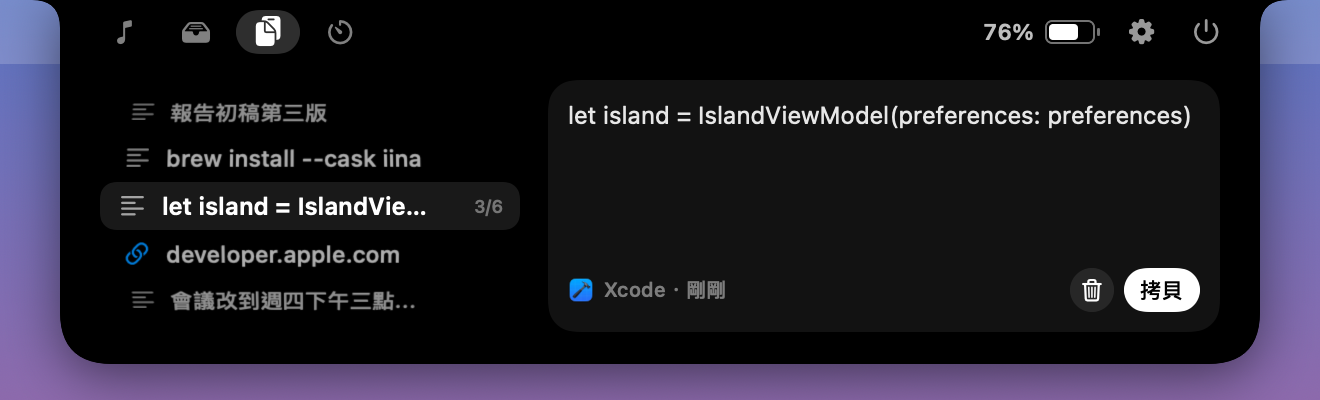
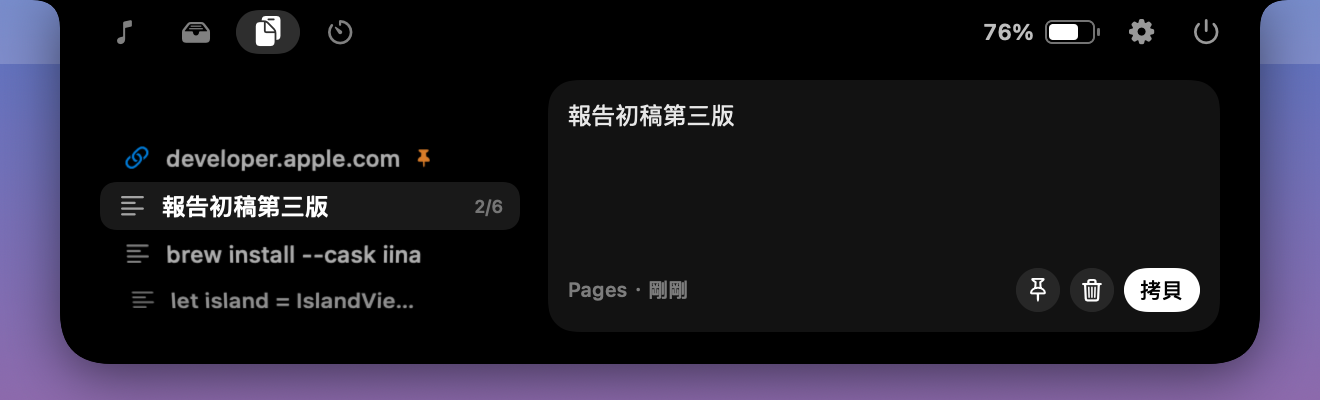
docs: describe pinning and concurrent timers, refresh screenshots
- Document clipboard pinning and the 30/50/100/200 entry limit, and the
  timer and Pomodoro running independently, in both READMEs
- Correct the clipboard size cap in Known limitations (32 MB of unpinned
  entries, not 64 MB)
- Show the timer counting down in the background in the Pomodoro
  screenshot, and use the pinned-entry scenario for the clipboard one

diff --git a/Sources/IsletKit/Support/SnapshotRenderer.swift b/Sources/IsletKit/Support/SnapshotRenderer.swift
@@ -126,6 +126,9 @@ enum SnapshotRenderer {
             Scenario(name: "07b-expanded-shelf-empty") { $0.expand(tab: .shelf) },
             Scenario(name: "07c-shelf-drop-zones") { $0.debugShowDropZones() },
             Scenario(name: "08-expanded-timer") { island in
+                // 計時器在背景跑，它的模式按鈕會顯示剩餘時間
+                island.timer.setCountdown(minutes: 10)
+                island.timer.start()
                 island.timer.setMode(.pomodoro)
                 island.timer.finish()
                 island.timer.finish()

diff --git a/README.md b/README.md
@@ -48,12 +48,12 @@ The screenshots are rendered by the app itself with `make screenshots` (fake wal
 | Charging & battery | Shows "Charging" and the level when plugged in; alerts once each at low battery (20 %, 10 %) and when fully charged | Battery level in the top bar (when the app tray is empty) |
 | App tray | — | Apps whose menu bar icons you've turned off (DockDoor, LinearMouse…) sit on the right of the top bar: in color when running, gray when not. Click one to reopen it (usually shows its settings window); right-click to open settings, launch, quit or remove it |
 | File shelf | Drag files onto the notch to expand it | Drop onto the shelf or AirDrop; drag items back out, double-click to open, right-click for a menu |
-| Timer / Pomodoro | Progress ring and time remaining | Presets (1/10/30/60/90/120 min), Pomodoro focus/break lengths and auto-continue (rounds keep counting up), start/pause/reset/skip |
+| Timer / Pomodoro | Progress ring and time remaining; when both are running, the one that ends first | Presets (1/10/30/60/90/120 min), Pomodoro focus/break lengths and auto-continue (rounds keep counting up), start/pause/reset/skip. The timer and Pomodoro run independently: switching between them only changes the view, and the other one's button shows its time remaining while it runs or is paused |
 | Bluetooth headphones | Alert on connect/disconnect; AirPods show left, right and case battery | — |
 | Volume | Speaker icon and level bar beside the notch when you change volume or mute | — |
 | Focus | Icon, name and state when a Focus mode turns on or off | — |
 | Microphone / screen recording | Alert when use starts and stops; the microphone alert shows which app is using it | An orange (microphone) or purple (screen recording) indicator in the top bar while in use |
-| Clipboard | When you copy or cut, the icon on the left bounces and a preview slides out on the right (start of the text, image thumbnail, or file count) | A wheel like a timer dial on the left showing 5 entries at a time (trackpad scroll, mouse wheel or ↑ ↓, with a light haptic tick per entry; trackpad speed is adjustable in Settings), and a preview of the selected entry on the right; Return copies, Esc collapses; click the middle entry or the preview to copy it again, right-click to remove or clear. Keeps up to 30 entries |
+| Clipboard | When you copy or cut, the icon on the left bounces and a preview slides out on the right (start of the text, image thumbnail, or file count) | A wheel like a timer dial on the left showing 5 entries at a time (trackpad scroll, mouse wheel or ↑ ↓, with a light haptic tick per entry; trackpad speed is adjustable in Settings), and a preview of the selected entry on the right; Return copies, Esc collapses; click the middle entry or the preview to copy it again, right-click to remove or clear. Pin an entry (pin button on the preview, or right-click) to keep it at the top and out of automatic cleanup. Keeps 30, 50 (default), 100 or 200 entries, not counting pinned ones |
 
 - Now playing is system-wide: any app works, including YouTube in a browser (via [mediaremote-adapter](https://github.com/ungive/mediaremote-adapter)). If a future macOS blocks this, the app falls back to a mode that only supports Music and Spotify.
 - When two activities run at once (music + timer, music + microphone, timer + screen recording…), the collapsed island shows one on each side of the notch, with music always on the left. Microphone / screen recording only appear next to another activity and never take over the island on their own. You can turn this off in Settings › General › When Collapsed to show only the highest-priority activity (timer > music).
@@ -169,7 +169,7 @@ Tests/IsletKitTests/          Unit tests
 - Focus has no public API, so the app reads the database in `~/Library/DoNotDisturb/DB`, which requires Full Disk Access. Only Focus modes turned on manually (Control Center, Shortcuts) are recognized; scheduled ones don't trigger an alert. With ad-hoc signing you also need to re-allow access after each rebuild (see the self-signed certificate above).
 - Screen recording detection uses the private WindowServer function `SLSIsScreenWatcherPresent`, so screen sharing and AirPlay mirroring may count too. If a future macOS removes the function, the toggle in Settings is greyed out.
 - On macOS 14.2 and later, microphone detection can tell which app is using it (Core Audio's process list); older systems only know that something is.
-- The clipboard is checked every 0.5 s via `changeCount` (macOS has no clipboard change notification). Items over 20 MB aren't recorded, and once the history exceeds 64 MB the oldest entries are dropped.
+- The clipboard is checked every 0.5 s via `changeCount` (macOS has no clipboard change notification). Items over 20 MB aren't recorded, and once unpinned entries exceed 32 MB in total the oldest are dropped.
 - The system clipboard doesn't record whether content was copied or cut, so both show the same animation; telling them apart would require monitoring the keyboard (Accessibility permission), which the app doesn't do.
 - AirPods battery levels are read from `system_profiler`; right after connecting they're sometimes unavailable, in which case only the name is shown.
 

diff --git a/README.zh-TW.md b/README.zh-TW.md
@@ -46,12 +46,12 @@
 | 充電與電量 | 插電時顯示「充電中」與電量；低電量（20%、10%）與充飽電各提示一次 | 沒有加背景程式時，頂部條顯示電量 |
 | 背景程式 | — | 把選單列圖示關掉的 App（DockDoor、LinearMouse…）收在頂部條右側：彩色的是執行中、灰色的是沒在執行；點一下重新打開它（大多會顯示設定視窗），右鍵可以打開設定、啟動、結束或移除 |
 | 檔案暫存架 | 把檔案拖到瀏海就會展開 | 放到暫存架或 AirDrop；項目可拖出、雙擊開啟、右鍵選單 |
-| 計時器／番茄鐘 | 顯示進度環與剩餘時間 | 預設時間（1／10／30／60／90／120 分）、番茄鐘的專注／休息時間與是否自動接續（輪數一直往下累計）、開始／暫停／重設／跳過 |
+| 計時器／番茄鐘 | 顯示進度環與剩餘時間；兩個都在跑時顯示比較快結束的那個 | 預設時間（1／10／30／60／90／120 分）、番茄鐘的專注／休息時間與是否自動接續（輪數一直往下累計）、開始／暫停／重設／跳過。計時器和番茄鐘各自計時，切換只是換畫面；另一個在跑或暫停中時，它的按鈕會顯示剩餘時間 |
 | 藍牙耳機 | 連線／中斷時跳出提示，AirPods 顯示左右耳與充電盒電量 | — |
 | 音量 | 調整音量或靜音時，瀏海兩側顯示喇叭圖示與音量條 | — |
 | 專注模式 | 開啟／關閉時顯示專注模式的圖示、名稱與狀態 | — |
 | 麥克風／螢幕錄影 | 開始與停止使用時各提示一次，麥克風會顯示正在使用的 App | 使用中時頂部條多一個橘色（麥克風）或紫色（螢幕錄影）圖示 |
-| 剪貼簿 | 拷貝或剪下時左邊的圖示彈一下，右邊滑出內容預覽（文字開頭、圖片縮圖、檔案數量） | 左邊是像計時器轉盤的滾輪，一次看得到 5 筆（觸控板上下滑動、滑鼠滾輪或 ↑ ↓ 鍵，每跳一筆輕震一下；觸控板速度可以在設定調整），右邊預覽選到的那筆；Return 複製、Esc 收合；點中間那筆或預覽就再複製一次，右鍵可移除或清空。最多保留 30 筆 |
+| 剪貼簿 | 拷貝或剪下時左邊的圖示彈一下，右邊滑出內容預覽（文字開頭、圖片縮圖、檔案數量） | 左邊是像計時器轉盤的滾輪，一次看得到 5 筆（觸控板上下滑動、滑鼠滾輪或 ↑ ↓ 鍵，每跳一筆輕震一下；觸控板速度可以在設定調整），右邊預覽選到的那筆；Return 複製、Esc 收合；點中間那筆或預覽就再複製一次，右鍵可移除或清空。可以釘選（預覽上的圖釘按鈕或右鍵），釘選的排在最上面、不會被自動刪掉。保留 30、50（預設）、100 或 200 筆，釘選的不算 |
 
 - 音樂是「全系統」的：任何 App 都支援，包含瀏覽器裡的 YouTube（透過 [mediaremote-adapter](https://github.com/ungive/mediaremote-adapter)）。如果未來 macOS 擋掉這個做法，會自動改用只支援 Music 與 Spotify 的模式。
 - 兩個活動同時進行時（音樂＋計時器、音樂＋麥克風、計時器＋螢幕錄影…），收合時瀏海左右兩側各顯示一個；音樂固定在左邊。麥克風／螢幕錄影只會排在別的活動旁邊，不會單獨佔用島。可以在設定「一般 › 收合時」關掉，改回只顯示優先的那一個（計時器 > 音樂）。
@@ -167,7 +167,7 @@ Tests/IsletKitTests/          單元測試
 - 專注模式沒有公開 API，是讀 `~/Library/DoNotDisturb/DB` 裡的資料庫，所以需要完整磁碟取用權限；目前只認得手動（控制中心、捷徑）開啟的專注模式，依時間表自動開啟的不會提示。ad-hoc 簽章每次重建後也要重新允許（見上面的自簽憑證）。
 - 螢幕錄影偵測用 WindowServer 的私有函式 `SLSIsScreenWatcherPresent`，螢幕共享、AirPlay 鏡像也可能算在內；未來 macOS 拿掉這個函式時，設定裡的開關會變灰。
 - 麥克風偵測在 macOS 14.2 以上能認出是哪個 App（Core Audio 的行程清單）；更舊的系統只知道「有人在用」。
-- 剪貼簿是每 0.5 秒檢查一次 `changeCount`（macOS 沒有剪貼簿變更通知）；超過 20 MB 的內容不記錄，整個紀錄超過 64 MB 時從最舊的開始丟。
+- 剪貼簿是每 0.5 秒檢查一次 `changeCount`（macOS 沒有剪貼簿變更通知）；超過 20 MB 的內容不記錄，沒釘選的紀錄加起來超過 32 MB 時從最舊的開始丟。
 - 系統的剪貼簿不會記錄內容是「拷貝」還是「剪下」來的，所以兩者顯示一樣的動畫；要分辨只能監聽鍵盤（需要輔助使用權限），目前沒有這麼做。
 - AirPods 電量是從 `system_profiler` 讀的，有時候剛連上會讀不到，就只顯示名稱。
 
